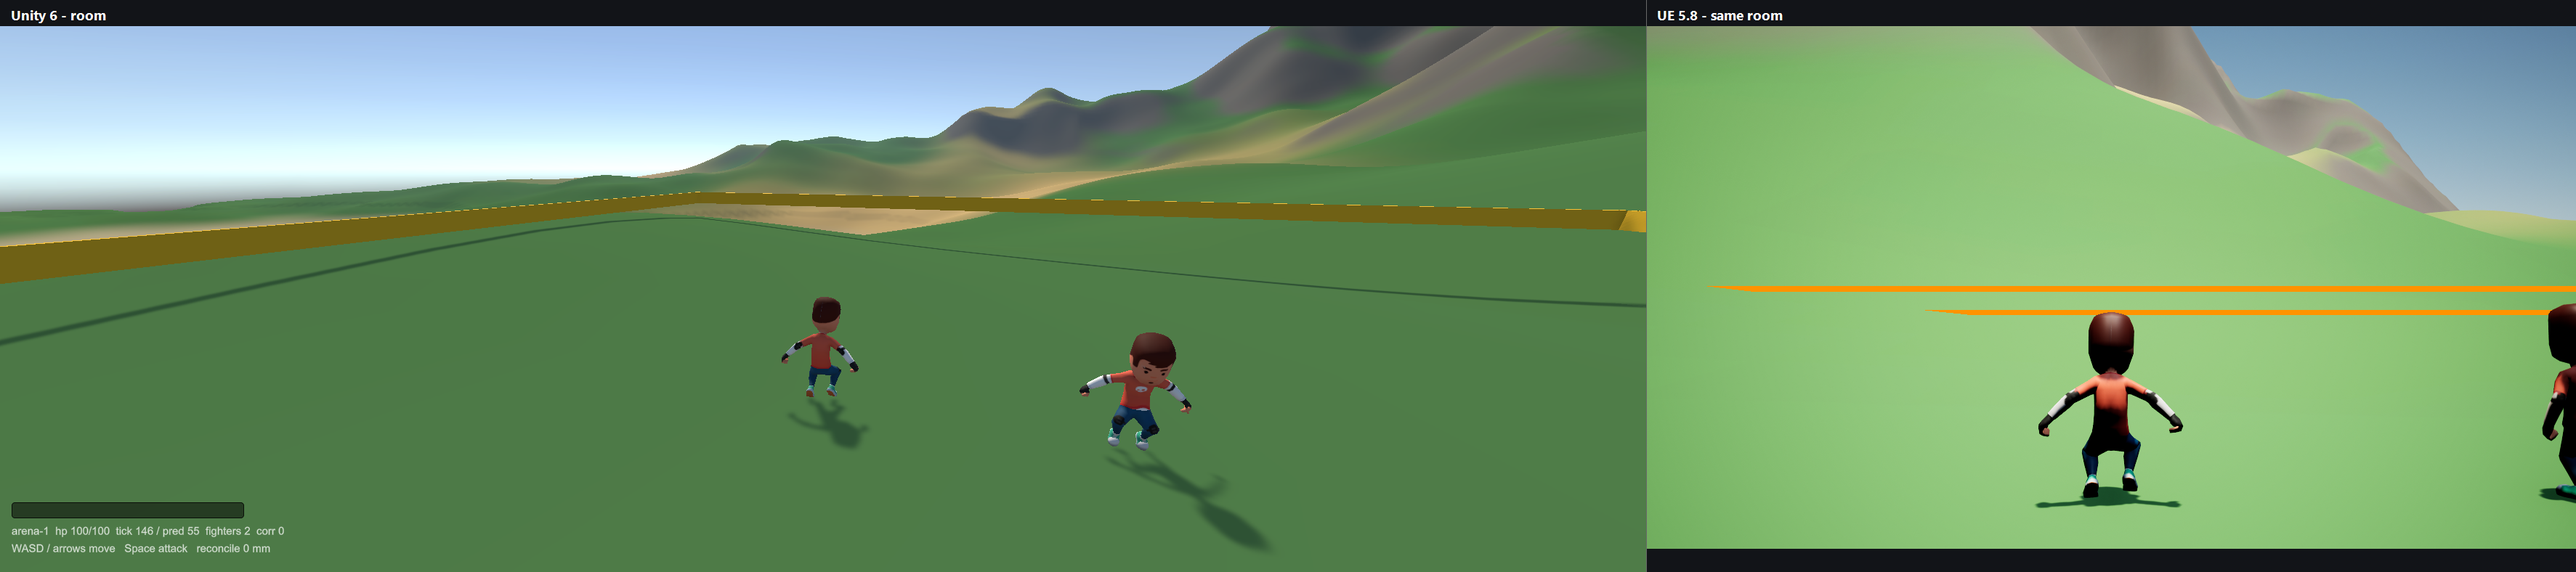
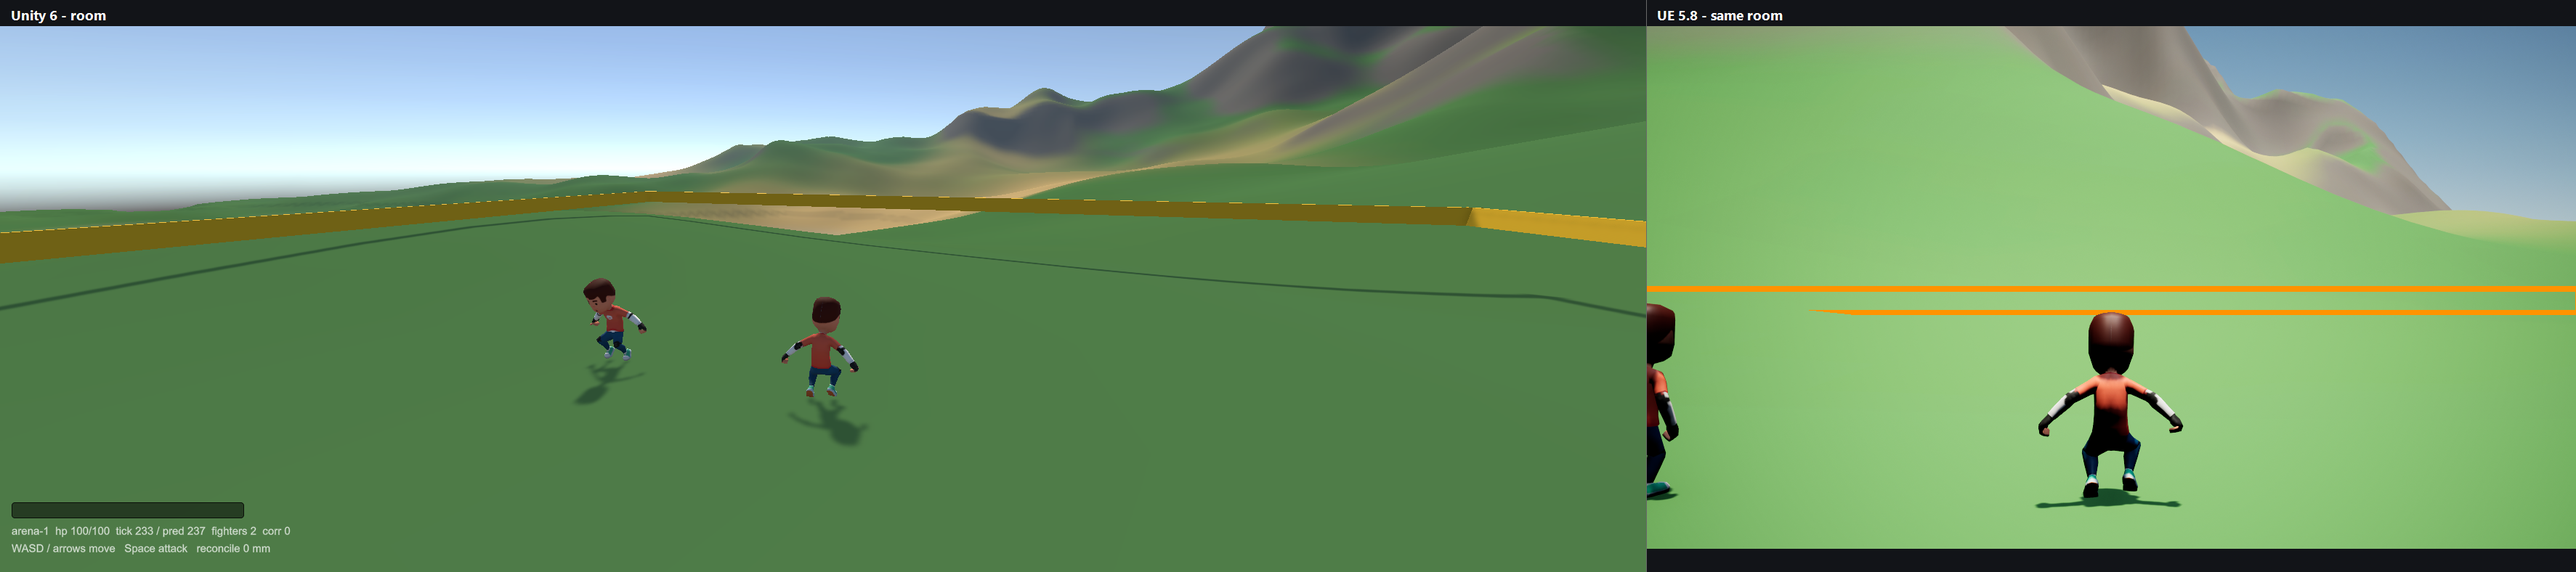
fix(demo): 房间截图等待预测追平；smoke-all 增加 -WithRoom
- unity: CaptureRoom 要求 PredictedTick >= ServerTick 才截图，
  避免世界初始化期间 pred 落后被拍进 HUD
- smoke-all: 新增 -WithRoom，跑同房演示；README/架构/规格同步
- docs: 刷新 demo-room / demo-compare / demo-diff 截图

diff --git a/clients/unity/UnityGameClient/Assets/Editor/CaptureRoom.cs b/clients/unity/UnityGameClient/Assets/Editor/CaptureRoom.cs
@@ -64,7 +64,11 @@ namespace AI003.EditorTools
 
                 double elapsed = Time.realtimeSinceStartupAsDouble - _playStartedAt;
                 RoomClient room = RoomClient.Instance;
-                bool ready = room != null && room.InRoom && room.Players >= 2;
+                // Wait until the local fighter exists and prediction has caught up:
+                // during world bootstrap the controller is missing for a moment and
+                // the room tick would otherwise be captured ahead of the prediction.
+                bool ready = room != null && room.InRoom && room.Players >= 2
+                             && room.PredictedTick >= room.ServerTick;
 
                 if (!_captured && ready && elapsed > ReadySeconds)
                 {

diff --git a/README.md b/README.md
@@ -88,6 +88,11 @@ UE 原先用 `(x, z, y)` 映射 Unity 坐标，行列式为负（反射），地
 
 ![Unity vs UE5 room](docs/images/demo-room.png)
 
+```powershell
+# 全量验证（含 PlayMode、画面对照、同房演示；约 15–20 分钟）
+.\scripts\smoke-all.cmd -WithCompare -WithRoom
+```
+
 ## 已实现的技术点
 
 **里程碑 1：开放世界地形 + 角色跑动**（已完成）
@@ -358,7 +363,7 @@ ue5-world  PASS
 | `scripts/demo-scenario.ps1` | 两个无头客户端进同一房间对战 + 指标基线校验（不需要引擎） |
 | `scripts/demo-compare.ps1` | 固定机位截取 Unity / UE 两帧、合成对比图与差分热力图，可设阈值 |
 | `scripts/demo-room.ps1` | 起网关 + Unity 进房 + UE bot 同房，双端截图并合成 |
-| `scripts/smoke-all.ps1` | 上述全部串起来，带超时与汇总 |
+| `scripts/smoke-all.ps1` | 上述全部串起来，带超时与汇总；`-WithCompare` 加画面对照、`-WithRoom` 加同房演示 |
 
 每个 `.ps1` 旁边都有同名 `.cmd`，双击或 `cmd /c` 调用即可（本机 PowerShell 执行策略为
 Restricted，`.cmd` 会自动带 `-ExecutionPolicy Bypass`）。

diff --git a/docs/specs/unity-client.md b/docs/specs/unity-client.md
@@ -126,7 +126,7 @@ Assets/StreamingAssets/world/          生成物（generate-world）
 | `AI003.EditorTools.WorldSmokeTest.Run` | 校验世界数据与分块网格 |
 | `AI003.EditorTools.RenderWorldPreview.Run` | 批处理模式离屏渲染截图 |
 | `AI003.EditorTools.CaptureDemoShot.Run` | 固定机位对照帧（ACES 卷 + 程序化天空）→ `artifacts/demo/unity.png` |
-| `AI003.EditorTools.CaptureRoom.Run` | 进房等 2 名玩家后截图 → `artifacts/demo/room-unity.png` |
+| `AI003.EditorTools.CaptureRoom.Run` | 进房、等 2 名玩家且预测追平（`pred >= server`）后截图 → `artifacts/demo/room-unity.png` |
 | `AI003.EditorTools.EnableUnityMcp.Run` | 打开 MCP 自动启动（stdio 桥 6400） |
 
 - PlayMode 测试：`ConnectionBootstrapTests`、`WorldPlayModeTests`（落地 + 跑动）。

diff --git a/docs/architecture.md b/docs/architecture.md
@@ -88,7 +88,8 @@ cd server; go build ./...; go vet ./...; go test ./... -count=1
 .\scripts\demo-scenario.cmd -Seconds 8 -UpdateBaseline
 .\scripts\demo-compare.cmd                      # 双端同机位对照（约 2 min）
 .\scripts\demo-compare.cmd -MaxBrightnessDelta 8 -MinWithin24 80   # 带阈值
-.\scripts\smoke-all.cmd -WithCompare -SkipPlayMode                 # 全链路含对照
+.\scripts\demo-room.cmd                        # 同房双端 + 双端截图
+.\scripts\smoke-all.cmd -WithCompare -WithRoom                     # 全链路
 
 # 全链路（可选跳过引擎）
 .\scripts\smoke-all.cmd -SkipUnity -SkipUE
